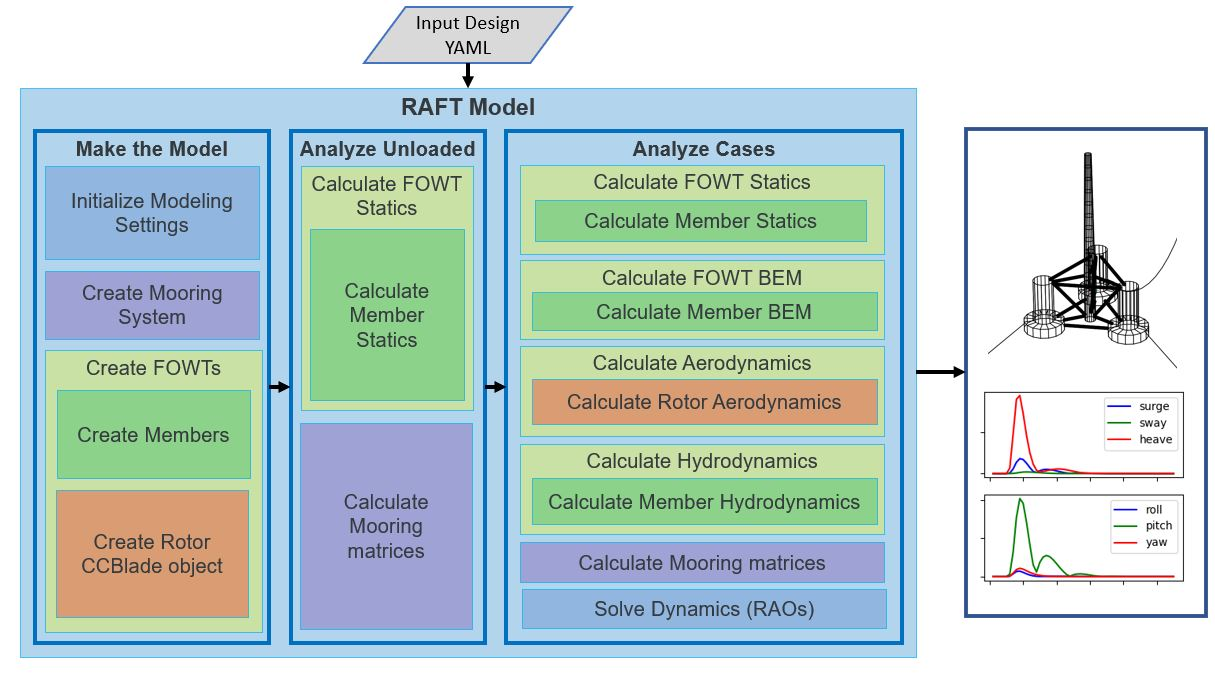
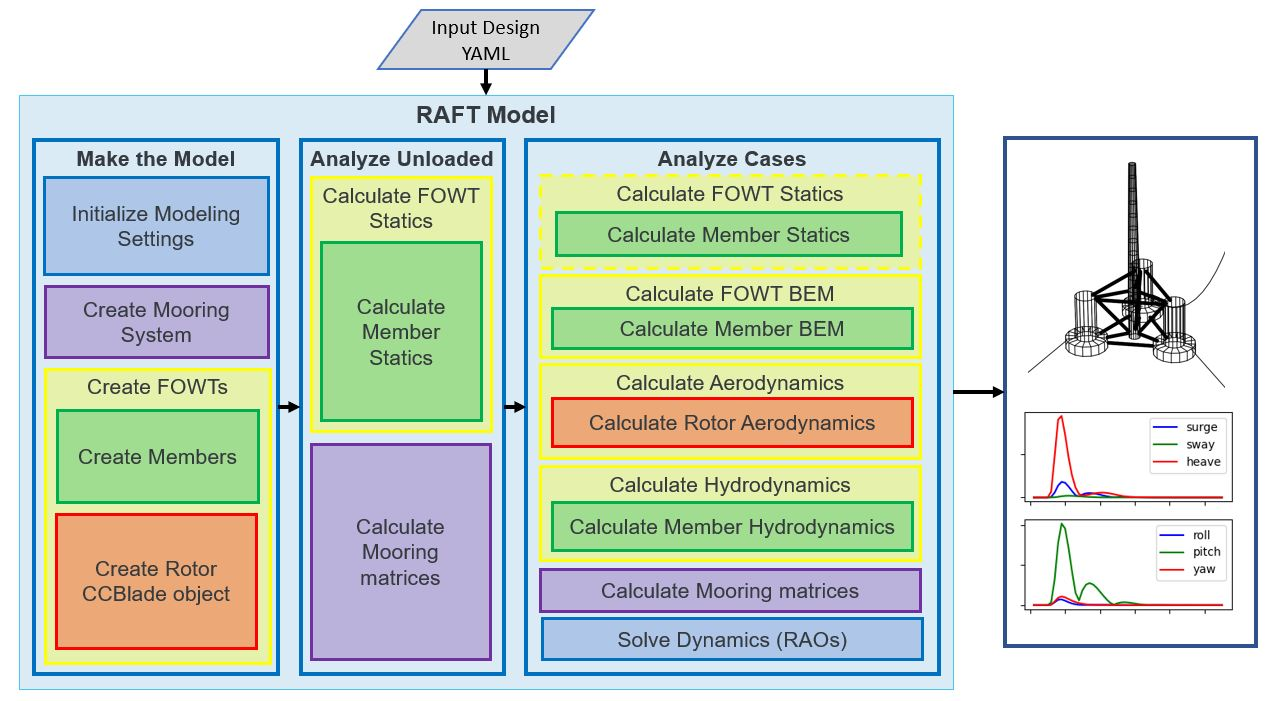
Updated workflow image and changed mooring/rotor theory links to MoorPy and CCBlade documentation pages

diff --git a/docs/theory.rst b/docs/theory.rst
@@ -66,11 +66,11 @@ The 6x6 hydrodynamic matrices for each member are calculated in one of two ways:
 Rotor Theory
 ------------
 
-The Rotor uses aerodynamic theory from WISDEM's CCBlade. Check out the `CCBlade documentation <https://github.com/WISDEM/WISDEM>`_ 
+The Rotor uses aerodynamic theory from WISDEM's CCBlade. Check out the `CCBlade documentation <https://wisdem.readthedocs.io/en/latest/wisdem/ccblade/index.html>`_ 
 for more infomation.
 
 Mooring Theory
 --------------
 
-RAFT uses the quasi-static mooring system modeler, MoorPy. Check out `the MoorPy documentation <https://github.com/NREL/MoorPy>`_ 
+RAFT uses the quasi-static mooring system modeler, MoorPy. Check out `the MoorPy documentation <https://moorpy.readthedocs.io/en/latest/>`_ 
 for more information.
